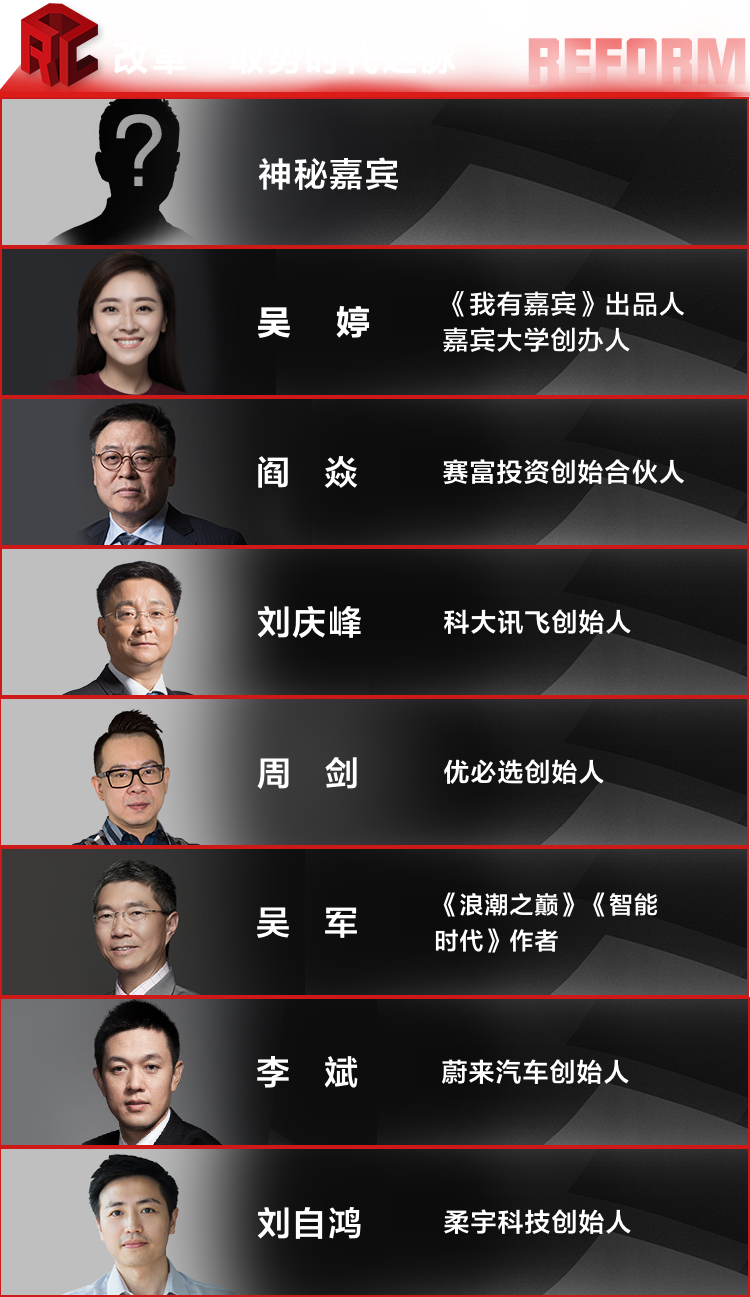
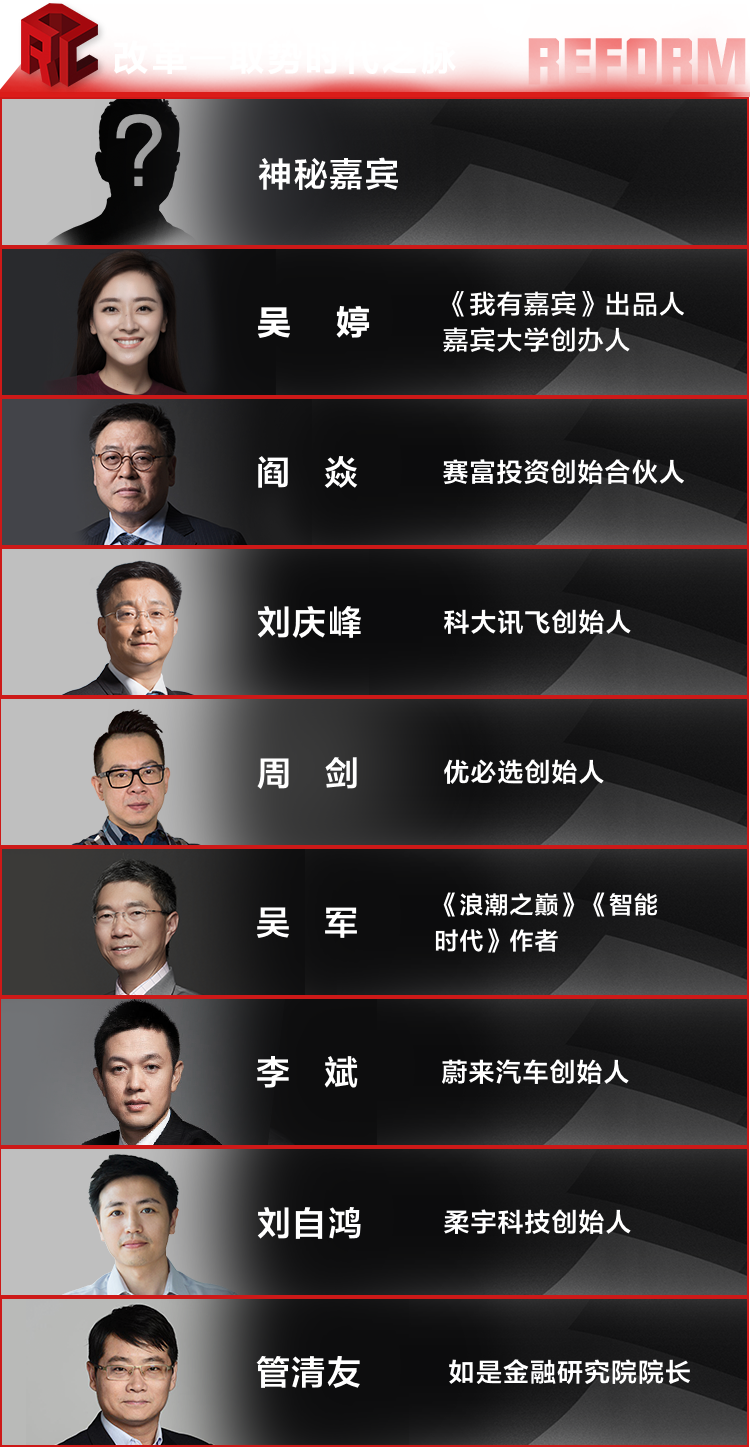
0921 my1

diff --git a/resources/views/Home/Page/meeting_2018.blade.php b/resources/views/Home/Page/meeting_2018.blade.php
@@ -80,25 +80,29 @@
                 <img class="shows" src="{{asset('Home/images/imgPc/guest1/3.png')}}" alt="">
                 <img class="hides" src="{{asset('Home/images/imgPc/guest1/3_1.png')}}" alt="">
               </p>
-              <p class="person person5">
+              <p class="person person4">
                 <img class="shows" src="{{asset('Home/images/imgPc/guest1/5.png')}}" alt="">
                 <img class="hides" src="{{asset('Home/images/imgPc/guest1/5_1.png')}}" alt="">
               </p>
-              <p class="person person6">
+              <p class="person person5">
                 <img class="shows" src="{{asset('Home/images/imgPc/guest1/6.png')}}" alt="">
                 <img class="hides" src="{{asset('Home/images/imgPc/guest1/6_1.png')}}" alt="">
               </p>
-              <p class="person person7">
+              <p class="person person6">
                 <img class="shows" src="{{asset('Home/images/imgPc/guest1/7.png')}}" alt="">
                 <img class="hides" src="{{asset('Home/images/imgPc/guest1/7_1.png')}}" alt="">
               </p>
-              <p class="person person8">
+              <p class="person person7">
                 <img class="shows" src="{{asset('Home/images/imgPc/guest1/8.png')}}" alt="">
                 <img class="hides" src="{{asset('Home/images/imgPc/guest1/8_1.png')}}" alt="">
               </p>
-              <p class="person person9">
+              <p class="person person8">
                 <img class="shows" src="{{asset('Home/images/imgPc/guest1/9.png')}}" alt="">
                 <img class="hides" src="{{asset('Home/images/imgPc/guest1/9_1.png')}}" alt="">
+              </p>
+              <p class="person person9">
+                <img class="shows" src="{{asset('Home/images/imgPc/guest1/10.png')}}" alt="">
+                <img class="hides" src="{{asset('Home/images/imgPc/guest1/10_1.png')}}" alt="">
               </p>
             </div>
             <div class="guest1">
